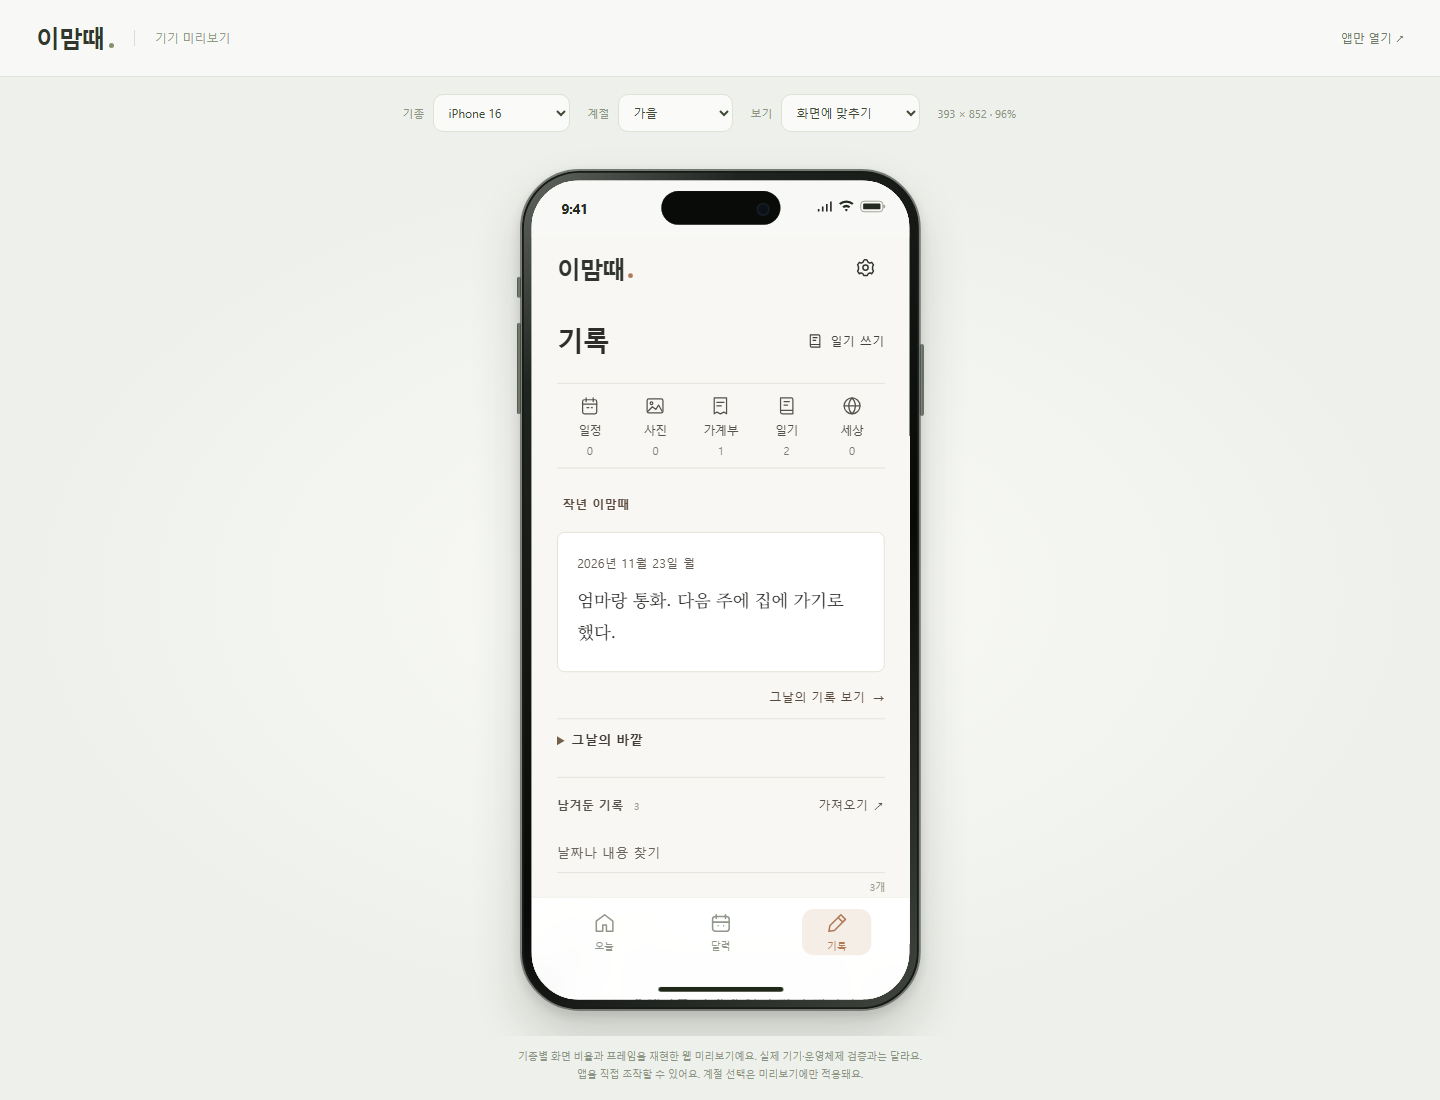
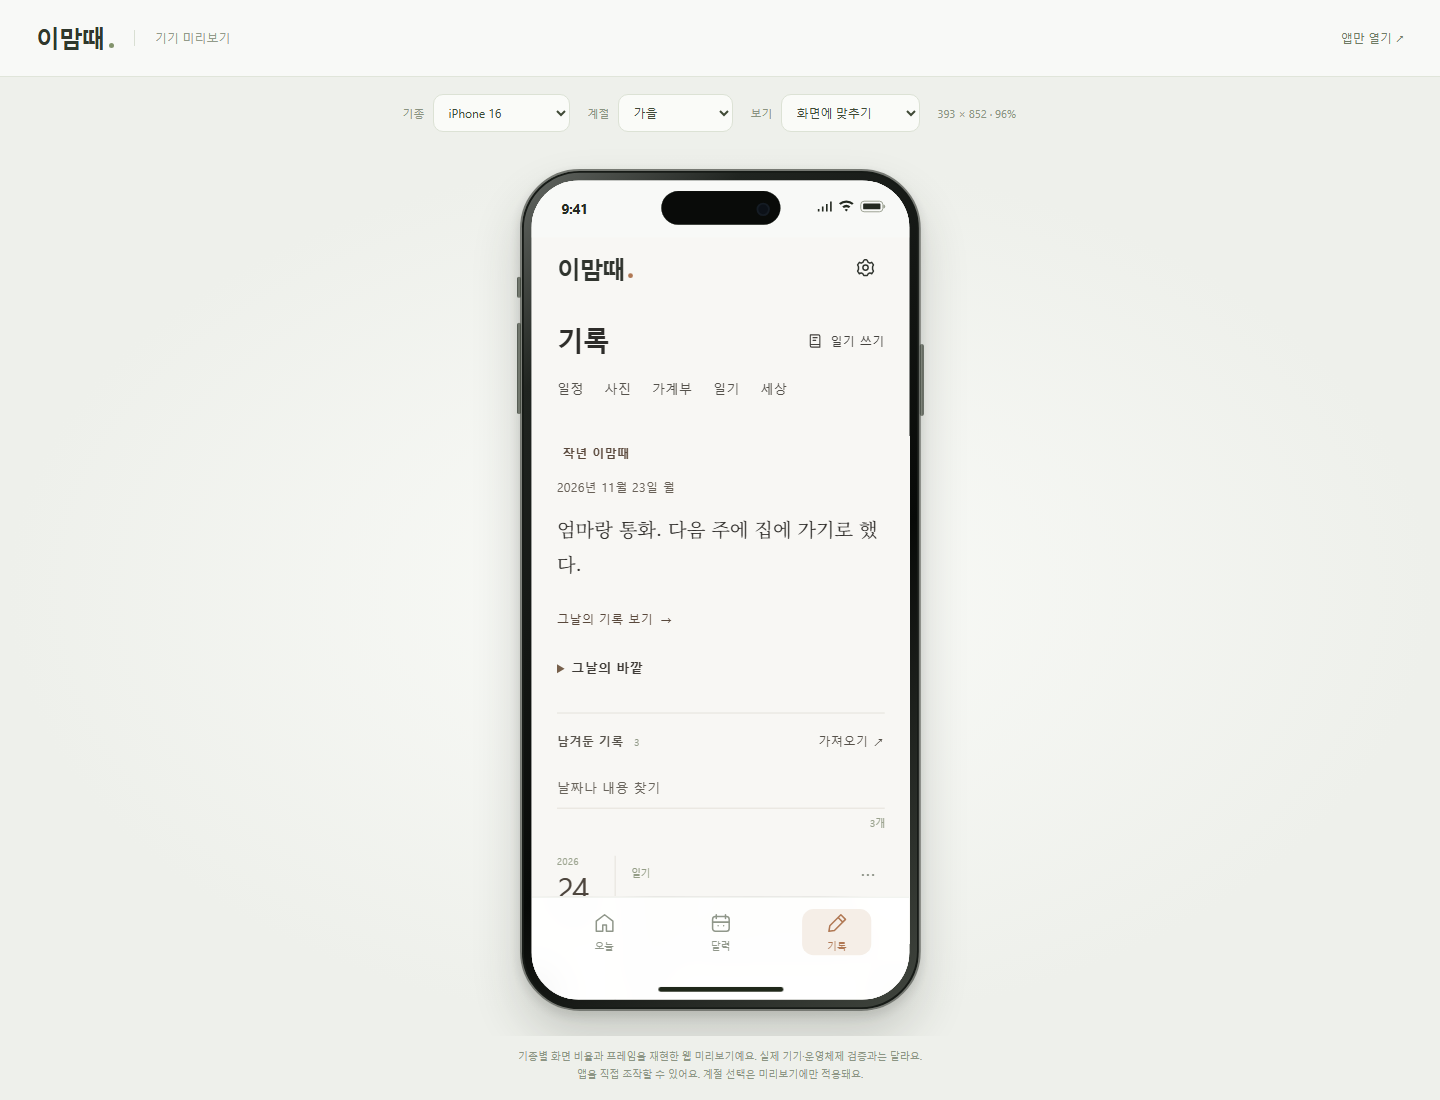
Give memories and local stories a more natural reading flow

diff --git a/styles.css b/styles.css
@@ -640,13 +640,10 @@ html[data-device-preview] .toast {bottom:calc(100px + var(--device-safe-bottom))
 .archive-heading h1 {font-size:34px;letter-spacing:-1.5px;font-weight:650;margin:0;display:flex;align-items:center;gap:10px;}
 .archive-write {display:flex;align-items:center;gap:7px;font-size:11px;padding:10px 0 10px 10px;min-height:44px;white-space:nowrap;}
 .archive-write svg {width:17px;height:17px;}
-.archive-sections {display:grid;grid-template-columns:repeat(var(--section-count),minmax(0,1fr));border-top:1px solid #e2e6dc;border-bottom:1px solid #e2e6dc;margin-bottom:16px;}
-.archive-sections button {position:relative;display:flex;align-items:center;flex-direction:column;gap:7px;min-width:0;min-height:88px;padding:15px 2px 12px;color:#7c8574;}
-.archive-sections svg {width:22px;height:22px;stroke-width:1.4;}
-.archive-sections span {font-size:11px;white-space:nowrap;}
-.archive-sections small {font-size:10px;font-variant-numeric:tabular-nums;opacity:.75;}
-.archive-sections button[aria-pressed=true] {color:var(--accent);background:linear-gradient(0deg,var(--tint),transparent 70%);}
-.archive-sections button[aria-pressed=true]:after {content:'';position:absolute;bottom:-1px;left:30%;right:30%;height:2px;background:var(--accent);}
+.archive-sections {display:flex;flex-wrap:wrap;gap:0 clamp(4px,2.4vw,12px);margin:0 0 22px -6px;}
+.archive-sections button {min-width:36px;min-height:44px;padding:0 6px;color:#55524c;font-size:14px;white-space:nowrap;}
+.archive-sections button:hover,.archive-sections button[aria-pressed=true] {text-decoration:underline;text-underline-offset:5px;}
+.archive-sections button[aria-pressed=true] {color:#6f503c;font-weight:650;}
 .archive-tools {display:flex;align-items:center;justify-content:space-between;margin-bottom:12px;gap:15px;}
 .archive-all,.archive-import {font-size:11px;min-height:36px;padding:4px 0;}
 .archive-all {color:#8b9381;}
@@ -709,7 +706,7 @@ html[data-device-preview] .toast {bottom:calc(100px + var(--device-safe-bottom))
 .empty-actions {display:flex;justify-content:center;gap:19px;margin-top:14px;}
 .archive-empty .small-button {font-size:11px;margin:auto;}
 .empty-actions .small-button {margin:0;}
-@media(max-width:360px) {.archive-heading h1{font-size:30px}.archive-day{grid-template-columns:36px minmax(0,1fr);gap:12px}.archive-content{padding-left:12px}.archive-day-number{font-size:29px}.archive-sections span{font-size:10px}.archive-content .expense-amount{font-size:12px}}
+@media(max-width:360px) {.archive-heading h1{font-size:30px}.archive-day{grid-template-columns:36px minmax(0,1fr);gap:12px}.archive-content{padding-left:12px}.archive-day-number{font-size:29px}.archive-content .expense-amount{font-size:12px}}
 
 /* Records use the device UI font and a Korean serif for personal writing. */
 .records-view {
@@ -718,17 +715,11 @@ html[data-device-preview] .toast {bottom:calc(100px + var(--device-safe-bottom))
   font-family:system-ui,"Apple SD Gothic Neo","Malgun Gothic",sans-serif;
 }
 .records-view .app-shell {background:var(--page);}
-.records-view .archive-heading {margin-bottom:22px;}
+.records-view .archive-heading {margin-bottom:6px;}
 .records-view .archive-heading h1 {font-size:28px;font-weight:650;letter-spacing:-.045em;color:#2e2d2a;}
 .records-view .archive-write {font-size:13px;color:#44423e;}
-.records-view .archive-sections {border-color:#e4e1da;margin-bottom:14px;}
-.records-view .archive-sections button {min-height:76px;color:#55524c;padding:12px 2px 10px;gap:6px;}
-.records-view .archive-sections span {font-size:12px;}
-.records-view .archive-sections small {font-size:11px;}
-.records-view .archive-sections button[aria-pressed=true] {color:#6f503c;background:#efeae3;}
-.records-view .archive-sections button[aria-pressed=true]:after {background:#947052;}
-.recollection {margin:0 0 18px;}
-.memory-toolbar {display:flex;align-items:center;justify-content:space-between;gap:12px;margin-bottom:8px;}
+.recollection {margin:0 0 24px;}
+.memory-toolbar {display:flex;align-items:center;justify-content:space-between;gap:12px;}
 .memory-year {min-height:44px;font-size:13px;font-weight:600;color:#59483b;}
 .memory-controls {display:flex;gap:2px;}
 .memory-controls[hidden] {display:none;}
@@ -738,42 +729,39 @@ html[data-device-preview] .toast {bottom:calc(100px + var(--device-safe-bottom))
 .memory-stage {outline-offset:4px;border-radius:8px;}
 .memory-stage[data-swipeable] {touch-action:pan-y pinch-zoom;cursor:grab;user-select:none;overflow:clip;}
 .memory-stage.is-dragging {cursor:grabbing;animation:none;}
-.memory-paper {overflow:hidden;background:#fff;border:1px solid #e5e0d8;border-radius:8px;}
+.memory-paper {padding:6px 0 16px;}
 .memory-stage[data-swipeable] .memory-paper {transform:translateX(var(--memory-offset,0px));transition:transform .24s ease-out;}
 .memory-stage.is-dragging .memory-paper {transition:none;}
-.recollection-figure {margin:0;}
-.recollection-photo {display:block;width:100%;aspect-ratio:16/9;object-fit:cover;}
-.recollection-writing {padding:20px 20px 24px;}
-.recollection-writing time {font-size:13px;color:#635b52;}
-.recollection-writing blockquote {
+.recollection-figure {margin:14px 0 0;}
+.recollection-photo {display:block;width:100%;max-height:280px;object-fit:contain;border-radius:5px;background:#efede8;}
+.memory-paper time {display:block;font-size:13px;color:#686057;}
+.memory-paper blockquote {
   font-family:var(--record-serif);
-  font-size:18px;
+  font-size:20px;
   font-weight:400;
   line-height:1.85;
   color:#302e2b;
   white-space:pre-wrap;
   overflow-wrap:anywhere;
-  margin:12px 0 0;
+  margin:16px 0 0;
   display:-webkit-box;
   -webkit-line-clamp:4;
   -webkit-box-orient:vertical;
   overflow:hidden;
 }
-.recollection-bottom {display:flex;justify-content:flex-end;margin-top:4px;}
-.recollection-bottom button {font-size:13px;color:#59483b;min-height:44px;padding:6px 0 6px 10px;}
+.recollection-bottom button {font-size:13px;color:#59483b;min-height:44px;padding:6px 0;}
 .recollection-bottom span {margin-inline-start:3px;}
 .recollection-bottom button:hover {text-decoration:underline;}
-.memory-world-context {border-top:1px solid #e4e1da;color:#3f3b36;overflow-wrap:anywhere;}
-.memory-world-context summary {cursor:pointer;padding:12px 0;font-size:14px;font-weight:600;}
+.memory-world-context {margin-top:8px;color:#3f3b36;overflow-wrap:anywhere;}
+.memory-world-context summary {width:fit-content;min-height:44px;cursor:pointer;padding:12px 0;font-size:14px;font-weight:600;}
 .memory-world-context summary::marker {color:#77604b;}
-.memory-world-group {margin:6px 0 12px;}
+.memory-world-group {margin:8px 0 18px;padding-inline-start:12px;border-inline-start:1px solid #d9cfc1;}
 .memory-world-group h3 {margin:0 0 8px;font-size:13px;color:#66584d;}
 .memory-world-group ul {list-style:none;margin:0;padding:0;}
-.memory-world-group li {padding:10px 12px;background:#fff;border:1px solid #e4e1da;border-radius:6px;}
-.memory-world-group li + li {margin-top:7px;}
+.memory-world-group li + li {margin-top:10px;}
 .memory-world-context p {margin:0 0 5px;line-height:1.5;}
 .context-meta {font-size:12px;color:#696057;}
-.context-title {font-size:14px;font-weight:600;}
+.context-title {font-size:15px;font-weight:600;}
 .context-text {font-size:13px;white-space:pre-wrap;}
 .context-actions {display:flex;flex-wrap:wrap;column-gap:12px;align-items:center;}
 .context-actions a,.context-actions button,.context-add {display:inline-flex;align-items:center;min-height:44px;font-size:13px;color:#674c38;text-decoration:underline;text-underline-offset:3px;padding:0;}
@@ -795,8 +783,7 @@ html[data-device-preview] .toast {bottom:calc(100px + var(--device-safe-bottom))
 .records-view .archive-page .world-note,.records-view .archive-storage {border-color:#e4e1da;}
 @media(max-width:360px) {
   .records-view .archive-heading h1 {font-size:24px;}
-  .recollection-writing {padding:16px;}
-  .recollection-writing blockquote {font-size:17px;}
+  .memory-paper blockquote {font-size:18px;}
   .recollection-friend {width:65px;height:85px;}
 }
 @media(prefers-reduced-motion:reduce) {

diff --git a/journal.js b/journal.js
@@ -28,7 +28,7 @@ export function memoryCard(item) {
 export function journalShell(state, query, filter) {
   const items=timelineItems(state);
   const keys=Object.keys(CATEGORIES).filter(key=>state.categories.includes(key));
-  return `<div class="archive-page"><header class="archive-heading"><h1>기록</h1><button class="archive-write" data-add-record="${dateKey(new Date())}" aria-label="기록 남기기">${sectionIcon('diary')}<span>일기 쓰기</span></button></header><nav class="archive-sections" aria-label="기록 종류" style="--section-count:${Math.max(1,keys.length)}">${keys.map(key=>`<button data-journal-filter="${key}" aria-pressed="${key===filter}" aria-label="${sectionNames[key]} ${items.filter(item=>item.type===key).length}개">${sectionIcon(key)}<span>${sectionNames[key]}</span><small>${items.filter(item=>item.type===key).length}</small></button>`).join('')}</nav><div id="recollection"></div><div class="archive-tools"><button class="archive-all" data-journal-filter="all" aria-pressed="${filter==='all'}">남겨둔 기록 <span>${items.length}</span></button><button class="archive-import" data-connections>가져오기 ↗</button></div><label class="sr-only" for="record-search">기록 내용이나 날짜 검색</label><input type="search" id="record-search" maxlength="1000" placeholder="날짜나 내용 찾기" value="${e(query)}" aria-controls="record-results"><p class="search-count" id="search-count" role="status"></p><div id="record-results"></div>${state.categories.includes('world') ? `<aside class="world-note"><strong>그날의 바깥</strong><button class="small-button" data-add-world>링크 남기기 ↗</button></aside>` : ''}<details class="archive-storage"><summary>저장 위치 · 백업</summary><p>이 브라우저에 저장돼요. 상단 설정에서 백업을 내려받을 수 있어요.</p></details></div>`;
+  return `<div class="archive-page"><header class="archive-heading"><h1>기록</h1><button class="archive-write" data-add-record="${dateKey(new Date())}" aria-label="기록 남기기">${sectionIcon('diary')}<span>일기 쓰기</span></button></header><nav class="archive-sections" aria-label="기록 종류">${keys.map(key=>`<button data-journal-filter="${key}" aria-pressed="${key===filter}">${sectionNames[key]}</button>`).join('')}</nav><div id="recollection"></div><div class="archive-tools"><button class="archive-all" data-journal-filter="all" aria-pressed="${filter==='all'}">남겨둔 기록 <span>${items.length}</span></button><button class="archive-import" data-connections>가져오기 ↗</button></div><label class="sr-only" for="record-search">기록 내용이나 날짜 검색</label><input type="search" id="record-search" maxlength="1000" placeholder="날짜나 내용 찾기" value="${e(query)}" aria-controls="record-results"><p class="search-count" id="search-count" role="status"></p><div id="record-results"></div>${state.categories.includes('world') ? `<aside class="world-note"><strong>그날의 바깥</strong><button class="small-button" data-add-world>링크 남기기 ↗</button></aside>` : ''}<details class="archive-storage"><summary>저장 위치 · 백업</summary><p>이 브라우저에 저장돼요. 상단 설정에서 백업을 내려받을 수 있어요.</p></details></div>`;
 }
 
 export function journalResults(state, query, filter, recordCard, taskRows) {

diff --git a/recollection.js b/recollection.js
@@ -49,10 +49,9 @@ function worldPanel(date,{exact,nearby}) {
         const currentUrl=safeLink(item.currentUrl);
         const kind=WORLD_KINDS[item.worldKind] || (item.id.startsWith('weather:') ? '날씨' : '자료');
         return `<li>
-          <p class="context-meta"><time datetime="${item.date}">${item.date}</time> · ${e(kind)}${item.area ? ` · ${e(item.area)}` : ''}</p>
           <p class="context-title">${e(item.title)}</p>
           ${item.text ? `<p class="context-text">${e(item.text)}</p>` : ''}
-          <p class="context-meta">${e(item.source)}</p>
+          <p class="context-meta"><time datetime="${item.date}">${item.date}</time> · ${e(kind)}${item.area ? ` · ${e(item.area)}` : ''} · ${e(item.source)}</p>
           <div class="context-actions">
             ${sourceUrl ? `<a href="${e(sourceUrl)}" target="_blank" rel="noopener noreferrer">${item.worldKind==='local' || item.worldKind==='event' ? '당시 소식' : '출처 보기'} ↗</a>` : ''}
             ${currentUrl ? `<a href="${e(currentUrl)}" target="_blank" rel="noopener noreferrer">현재 정보 확인 ↗</a>` : ''}
@@ -98,11 +97,9 @@ export function memoryStage(days,date,{now=new Date(),direction=0,rangeActive=fa
       </div>
       <div id="memory-stage" class="memory-stage ${motionClass}" data-memory-stage ${days.length>1?'data-swipeable':''} tabindex="0" role="group" aria-label="${e(fullDate)}. ${memoryDistance(day.date,now)}.${days.length>1?' 좌우 방향키나 스와이프로 넘기기':''}">
         <div class="memory-paper">
+          <time datetime="${day.date}">${e(fullDate)}</time>
           ${photo?`<figure class="recollection-figure"><img class="recollection-photo" src="${e(photo.imageData)}" alt="${e(photo.title)}" draggable="false"></figure>`:''}
-          <div class="recollection-writing">
-            <time datetime="${day.date}">${e(fullDate)}</time>
-            ${written ? `<blockquote>${e(written)}</blockquote>` : ''}
-          </div>
+          ${written ? `<blockquote>${e(written)}</blockquote>` : ''}
         </div>
       </div>
       <div class="recollection-bottom">

diff --git a/docs/RECORDS_DESIGN.md b/docs/RECORDS_DESIGN.md
@@ -14,8 +14,9 @@
 ## 화면 구성
 
 - 제목은 ‘기록’으로 두고 옆에 일기 쓰기 버튼을 둔다. 메뉴와 날짜는 기기 기본 글꼴, 일기 문장은 기기에 설치된 한글 명조 계열 글꼴을 쓴다.
-- 회상 화면의 날짜와 글은 흰 바탕에 짙은 글자로 표시한다. ‘작년 이맘때’와 넘기기 버튼은 한 줄에 둔다.
-- 주요 메뉴: 일정·사진·가계부·일기·세상. 아이콘, 이름, 실제 저장된 기록 수를 함께 보여준다.
+- 회상 날짜부터 사진, 문장, ‘그날의 기록 보기’까지 같은 왼쪽 기준선에서 읽는다. 여백으로 각 요소를 구분한다.
+- 일정·사진·가계부·일기·세상은 글자 너비에 맞춘 메뉴로 놓는다. 선택한 종류는 밑줄로 표시한다.
+- 펼친 ‘그날의 바깥’은 각 소식의 제목을 먼저 보여주고 날짜·지역·출처를 아래에 둔다.
 - 회상 아래 도구: 남겨둔 기록, 가져오기, 내용·날짜 검색.
 - 본문: 왼쪽 날짜와 오른쪽 기록. 동일한 날의 항목을 묶는다.
 - 일기: 세리프 글꼴과 문장 사이 여백. 날짜는 왼쪽에 있으므로 본문 위에서 중복 표시하지 않는다.
